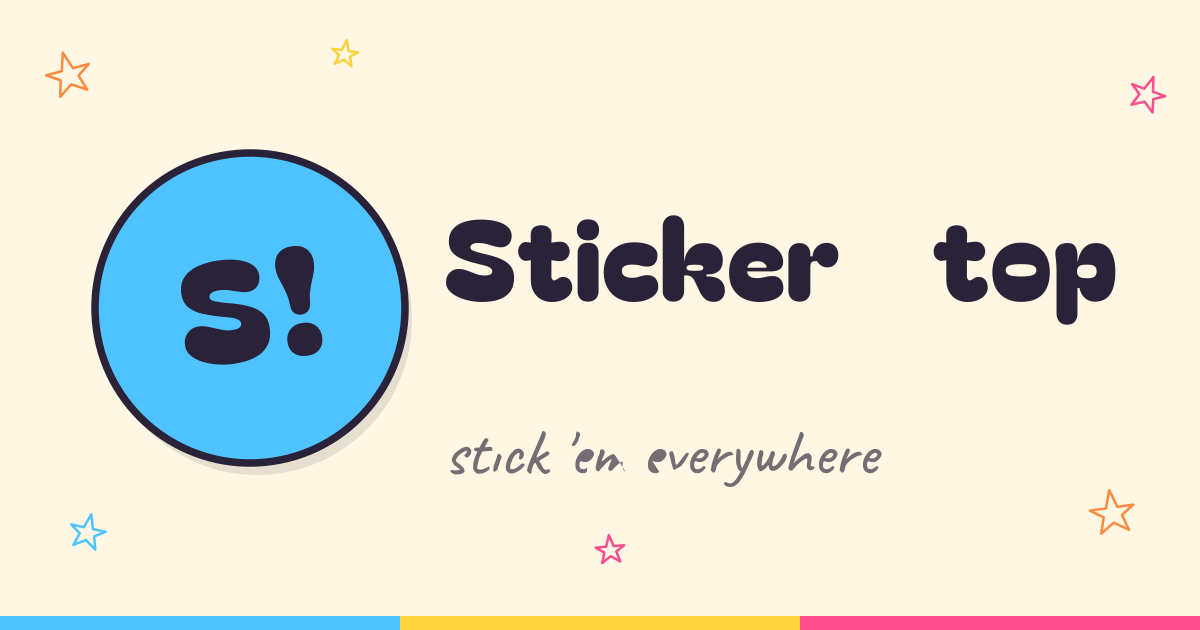
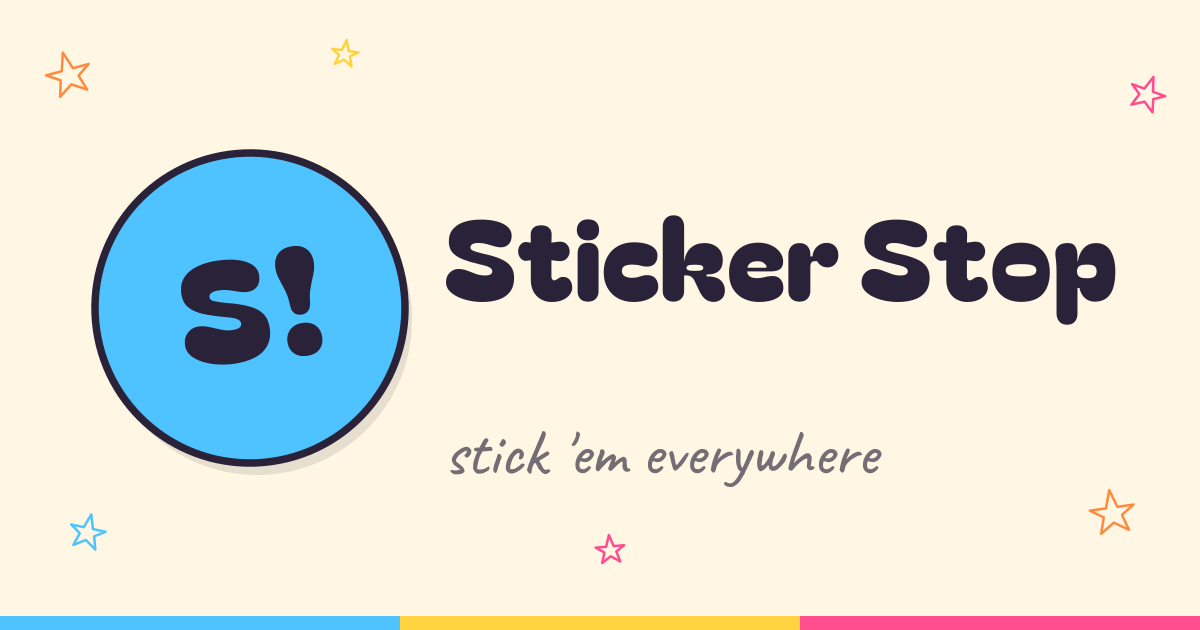
Fix NaN glyph coords caused by floating-point cursor accumulation
opentype.js toSVG() has a bug where the value 859.5200000000001
(vs the "clean" 859.52) produces NaN coordinates in the path string.
Snap cursor to 3 decimal places before each getPath() call to avoid
the epsilon that triggers the bug.

https://claude.ai/code/session_01Y8iosHZQgAJEX6SNKrp2Bk

Changed region(s): [[0.7092, 0.3317, 0.8017, 0.4825], [0.4933, 0.7238, 0.5242, 0.754]]

diff --git a/scripts/gen-og.js b/scripts/gen-og.js
@@ -58,7 +58,7 @@ function charPaths(font, text, x, y, size, fill) {
   const scale = size / font.unitsPerEm;
   let cursor = x;
   return text.split('').flatMap(ch => {
-    const p = font.getPath(ch, cursor, y, size);
+    const p = font.getPath(ch, Math.round(cursor * 1000) / 1000, y, size);
     cursor += font.stringToGlyphs(ch).reduce((s, g) => s + g.advanceWidth * scale, 0);
     if (!p.commands.length) return [];
     p.fill = fill;
